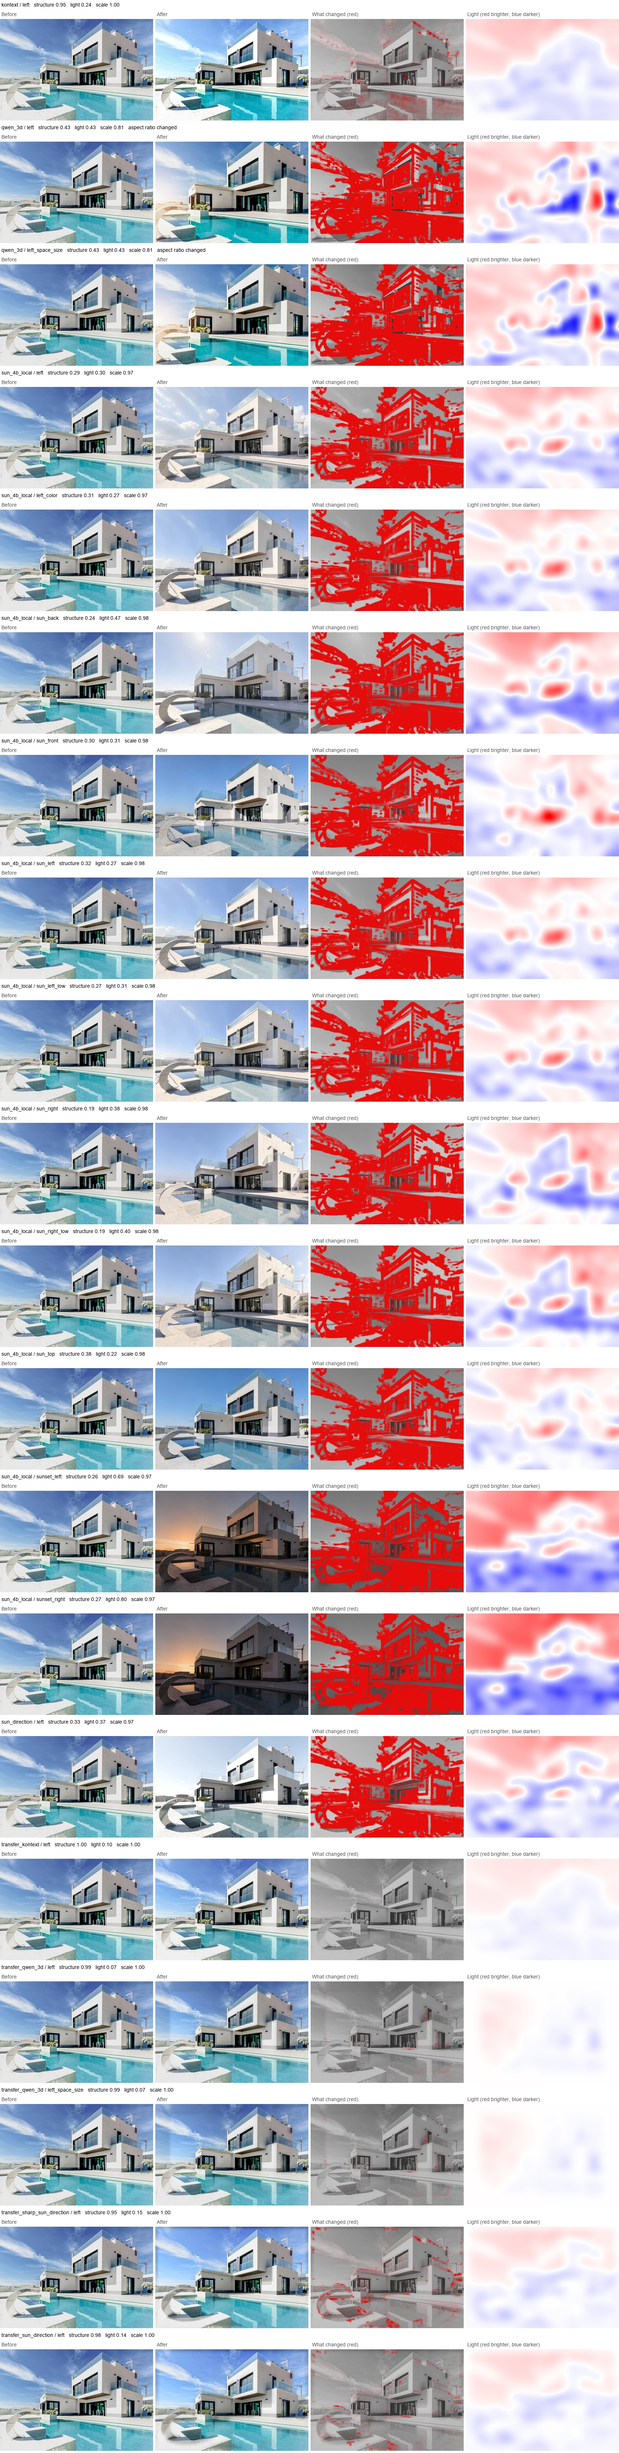
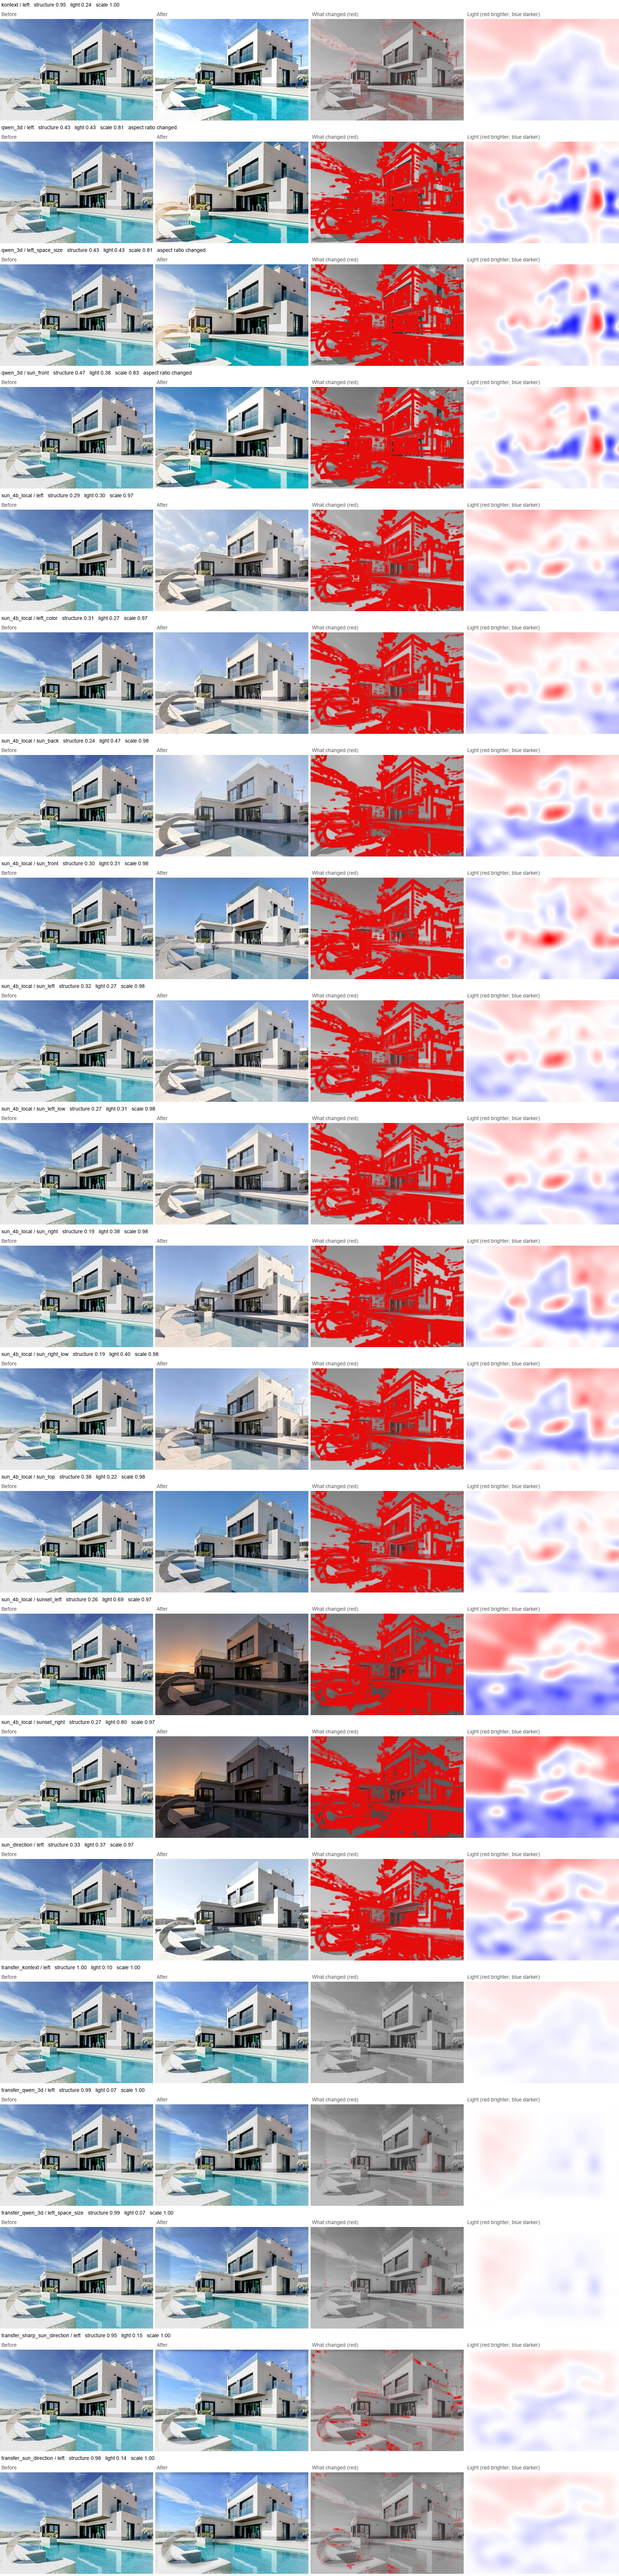
Add more detail on results and problems
Explain the setup and why each problem happens for every model, how the
scores work, the full numbers and how I would build it.

diff --git a/build_pdf.py b/build_pdf.py
@@ -2,6 +2,7 @@
 
     python build_pdf.py
 """
+import csv
 import io
 import json
 from pathlib import Path
@@ -13,7 +14,7 @@ from reportlab.lib.styles import ParagraphStyle
 from reportlab.lib.units import mm
 from reportlab.pdfbase import pdfmetrics
 from reportlab.pdfbase.ttfonts import TTFont
-from reportlab.platypus import Image, PageBreak, Paragraph, SimpleDocTemplate, Table, TableStyle
+from reportlab.platypus import Image, KeepTogether, PageBreak, Paragraph, SimpleDocTemplate, Table, TableStyle
 
 import compare
 
@@ -154,11 +155,20 @@ def start():
         text("The Sun-Direction 4B model on a serverless GPU, for exteriors only, with an automatic check that retries "
              "if the building changes. My estimate is about $0.01 to $0.02 per image and 20 to 26 s. That estimate uses "
              "RunPod prices and my Space times. I did not test it on that GPU."),
+        text("How I measured", H1),
+        text("Every number here comes from my compare.py script. It helps me sort results, but it doesn't replace looking at them."),
+        *bullets([
+            "<b>Structure (0 to 1):</b> local correlation of brightness in a 15 x 15 pixel window, after undoing zoom and shift. "
+            "Flat areas like sky are skipped. New shadows lower it too: fake hard shadows scored 0.92 to 0.96, so a low score isn't always damage.",
+            "<b>Light change (EV):</b> how much the brightness pattern changed across the image, with the overall exposure change removed.",
+            "<b>Scale:</b> the zoom needed to line the result up with the original. 1.00 means the framing held.",
+            "<b>What it can't do:</b> it doesn't check if a shadow points the right way. That part was by eye.",
+        ]),
         text("The three test photos", H1),
         grid([(original(VILLA), "Villa", "Glass, a pool and a steel sculpture. Lots of ways to go wrong."),
               (original(BLOCK), "Concrete block", "A strong diagonal shadow, so you can see if the sun really moved."),
               (original(ROOM), "Living room", "Light can only come through the windows, and there is a lot of furniture.")],
-             max_height=60 * mm),
+             max_height=52 * mm),
     ]
 
 
@@ -168,11 +178,12 @@ def pairs(number, name, did, rows):
     items = []
     for tool, photo, trial, title, note in rows:
         items += [(original(photo), f"{labels[photo]}, original", ""), (r(tool, photo, trial), title, note)]
-    return [PageBreak(), text(f"{number}. {name}", H1), text(f"<b>What I did:</b> {did}"), grid(items, max_height=57 * mm)]
+    return [PageBreak(), text(f"{number}. {name}", H1), text(f"<b>What I did:</b> {did}"), grid(items, max_height=43 * mm)]
 
 
-def ending_of(result, problems):
-    return [text("Result", H2), text(result), text("Problems", H2), *bullets(problems)]
+def ending_of(setup, result, problems):
+    return [KeepTogether([text("Setup", H2), text(setup), text("Result", H2), text(result)]),
+            text("Problems and why they happen", H2), *bullets(problems)]
 
 
 def models():
@@ -183,9 +194,18 @@ def models():
                   [(s9, VILLA, "left", "Sun moved to the left", "The sun moved, but the colors and the pool went gray."),
                    (s9, BLOCK, "right", "Sun moved to the right", "The sun moved, but beige concrete turned gray and the sky went pale."),
                    (s9, ROOM, "back_left", "Low sun from the back left", "The sofa, table, rug and the view outside all changed.")])
-    story += ending_of("It moves the sun, but it washes out the colors.",
-                       ["Colors go gray.", "It redraws furniture indoors. It wasn't trained on interiors.",
-                        "The 9B model can't be used commercially."])
+    story += ending_of(
+        "FLUX.2 Klein 9B with the Sun-Direction LoRA, on a free ZeroGPU Space. It runs two passes at about 1 megapixel: "
+        "an overcast pass without the LoRA, then a LoRA pass that gets the overcast image and the ball as references. "
+        "4 steps, guidance 1.0, seed 42.",
+        "On both exteriors the lit side of the building really changed. Light change was 0.37 to 0.49 EV and the framing "
+        "held (scale 0.97 to 1.00). Structure was only 0.33 to 0.52, because the image is generated again rather than edited. "
+        "Output is about 1264 wide, so detail from the 1536 px input is lost too.",
+        ["<b>Color loss:</b> concrete and the pool went gray. On the 4B version I saved the overcast image and the color "
+         "was still there, so the loss happens in the LoRA pass, not the overcast pass.",
+         "<b>Interiors:</b> the author says the LoRA has no interior training data. It doesn't know light has to come "
+         "through the windows, and it redrew the view, sofa, table and rug.",
+         "<b>License:</b> the LoRA is Apache-2.0, but the 9B base model is non-commercial, so this version can't ship."])
 
     rows = [(VILLA, "left", "left_color", "Villa", "A lot of clouds appeared and everything is pale.",
              "The blue sky came back. The sculpture looks like stone."),
@@ -201,24 +221,48 @@ def models():
               text("<b>What I did:</b> 4B is the smaller version, and it's the one that allows commercial use. "
                    "I ran it on my own RTX 4070, once with no prompt and once with a short prompt asking it to keep the colors."),
               grid(items, columns=3, max_height=42 * mm)]
-    story += ending_of("The color prompt helped a lot. This is the version I would use, but only for exteriors.",
-                       ["Materials still change a bit, and it adds things like trees and clouds.",
-                        "It took 73 to 116 s on my card, because the model doesn't fully fit in 12 GB."])
+    story += ending_of(
+        "FLUX.2 Klein 4B (Apache-2.0) with its matching LoRA, on an RTX 4070 with 12 GB. Same two passes, 4 steps and "
+        "guidance 1.0 through diffusers, with bfloat16 and model CPU offload. Peak GPU memory was 10.4 GB. Color prompt: "
+        "<i>clear blue sky, warm natural sunlight, same colors and materials as the original</i>.",
+        "The color prompt brought back the blue sky and warmer walls without hurting structure much "
+        "(villa 0.29 to 0.31, block 0.52 to 0.48, room 0.48 to 0.49). It's a cheap fix, and this is the version I would "
+        "build on, but only for exteriors.",
+        ["<b>Materials:</b> steel turns to stone because nothing protects it. Every pixel is generated again.",
+         "<b>Added objects:</b> the tree and wire on the concrete block are already there in the overcast pass. That pass is a "
+         "plain edit with no LoRA, so the extra content starts before the sun is even moved.",
+         "<b>Speed:</b> 73 to 116 s. The model doesn't fully fit in 12 GB, so parts move between RAM and GPU. Time on a "
+         "bigger GPU is still unknown."])
 
     story += pairs(3, "Qwen 3D Lighting (free demo)", "you choose the light direction with an angle, and the model edits the photo.",
                    [(q, VILLA, "left", "Sun moved to the left", "Soft haze on the left, and the photo got zoomed."),
                     (q, BLOCK, "right", "Sun moved to the right", "The right wall got brighter, but the old shadow stayed and flower pots appeared."),
                     (q, ROOM, "back_left", "Low sun from the back left", "Furniture stayed, but the sun patch on the window wall can't happen.")])
-    story += ending_of("Fast and keeps the colors, but the light doesn't really move.",
-                       ["It zooms the photo by 16 to 19 percent every time.", "Old shadows stay, and it adds objects."])
+    story += ending_of(
+        "Qwen-Image-Edit on a free ZeroGPU Space. The Space turns the angle into a prompt such as "
+        "<i>Light source from the Right</i>. 4 steps, guidance 1.0, output about 1024 wide.",
+        "The fastest tool at 6.5 to 24 s, and it keeps colors best. Light change was 0.38 to 0.50 EV, but it's mostly brightness "
+        "added on top of the old lighting. After undoing the zoom, structure was 0.43 to 0.60.",
+        ["<b>Zoom:</b> scale came back 0.81 to 0.84 on all four tries, so the output doesn't line up with the original. "
+         "Using the Space's own image size gave the same result, so it isn't caused by my settings.",
+         "<b>Light is added, not moved:</b> old shadows stay. Direction is only a few words in a prompt, and the model doesn't "
+         "use any depth or geometry. That's probably why it put a sun patch on the window wall.",
+         "<b>Added objects:</b> flower pots appeared on the concrete block balcony."])
 
     story += pairs(4, "FLUX.1 Kontext (free demo)",
                    "this is a normal text edit model. I asked in plain text: change only the lighting and keep the building the same.",
                    [(k, VILLA, "left", "Sun moved to the left", "Almost nothing changed. Colors are a bit stronger."),
                     (k, BLOCK, "right", "Sun moved to the right", "The diagonal shadow did not move, and the frame shifted a little."),
                     (k, ROOM, "back_left", "Low sun from the back left", "Nice sunset, but everything is orange and the view is new.")])
-    story += ending_of("It keeps the building, but it doesn't move the sun on exteriors.",
-                       ["Inside, the sun appeared on the wrong side.", "The open version is non-commercial."])
+    story += ending_of(
+        "FLUX.1 Kontext [dev] on a free ZeroGPU Space. 28 steps, guidance 2.5, seed 42. It only takes text, so there's "
+        "no real way to give it a direction.",
+        "The best structure on exteriors (villa 0.95, block 0.81), but the weakest light change of the three models on those "
+        "photos (0.24 and 0.31 EV). In this case a high score mostly means that little happened.",
+        ["<b>No sun movement:</b> my guess is that <i>keep everything the same</i> beat <i>move the sun</i> in the prompt.",
+         "<b>Interior:</b> a strong sunset, about 0.8 EV darker overall, but the sun landed on the wrong side and the outside view was replaced.",
+         "<b>Frame shift:</b> the concrete block moved by about 38 px (scale 0.98).",
+         "<b>License:</b> the dev weights are non-commercial, so a product would need the paid Pro API, which I did not test."])
 
     t9, ts, tq, tk = "transfer_sun_direction", "transfer_sharp_sun_direction", "transfer_qwen_3d", "transfer_kontext"
     rows = [(VILLA, "left", "Villa", "Slight glow at the edges, and the sun didn't move.", "Stronger glow along the edges.",
@@ -236,8 +280,16 @@ def models():
               text("<b>What I did:</b> the models kept redrawing things, so I kept the original photo and copied only the "
                    "brightness change from each model's result."),
               grid(items, columns=3, max_height=38 * mm)]
-    story += ending_of("Objects stay perfect, but the sun doesn't really move.",
-                       ["Old hard shadows stay.", "Sharper settings add bright halos around objects."])
+    story += ending_of(
+        "Align the result to the original, take the log2 brightness ratio, smooth it with a guided filter that uses the original as "
+        "its guide, clip to 2 EV, scale it up and multiply in linear light. Smooth: radius 12, epsilon 0.002. "
+        "Sharp: radius 3, epsilon 0.05. It runs on a CPU and keeps the full resolution.",
+        "Objects are safe: structure 0.94 to 1.00, with no redrawn furniture. But light change falls to 0.04 to 0.20 EV, against "
+        "0.24 to 0.61 for the models, so most of the new light is lost on the way.",
+        ["<b>Old shadows stay:</b> erasing a hard shadow needs a sharp ratio exactly on the shadow edge. Smoothing blurs it, "
+         "and the model's result doesn't line up well enough for a sharp ratio.",
+         "<b>Halos:</b> with less smoothing, edges that don't match between the two images show up as bright lines.",
+         "<b>Ghosts:</b> mistakes in the model's result come along too, like the ring shadow on the living room floor."])
     return story
 
 
@@ -264,12 +316,17 @@ def villa_angles():
             (r(s4, v, "sunset_left"), "Sunset on the left", "The biggest change of all."),
             (r(s4, v, "sunset_right"), "Sunset on the right", "A miss: I asked for the right, but the orange sky stayed on the left."),
             (r("qwen_3d", v, "sun_front"), "Qwen, sun behind the camera", "My one extra Qwen try. Colors are nice, but it's zoomed in a lot."),
-        ], max_height=60 * mm),
-        text("Result", H2),
-        text("This is the best result of the project. You can tell where the sun is, especially from behind the building, from above and at sunset."),
-        text("Problems", H2),
-        *bullets(["The steel sculpture looks like stone, and the pool loses its strong turquoise.",
-                  "Wall tile lines get softer.", "Sunset direction isn't reliable yet."]),
+        ], max_height=48 * mm),
+        *ending_of(
+            "Same 4B setup. I raised the ball brightness from 1.5 to 3.0, set sun height from 8 to 85 degrees, and added "
+            "<i>strong direct sunlight, hard sharp shadows</i> to the prompt. The sunset shots used their own prompt.",
+            "This is the best result of the project. You can tell where the sun is, especially from behind the building, "
+            "from above and at sunset. Light change was 0.22 to 0.47 EV in daylight and 0.69 to 0.80 EV at sunset.",
+            ["<b>Materials:</b> the sculpture looks like stone, the pool loses its turquoise and tile lines get softer. "
+             "Structure dropped to 0.19 to 0.38 here, so stronger light costs more detail.",
+             "<b>Left and right:</b> this is the closest pair. The camera sees two faces of the villa at an angle, so the difference is small.",
+             "<b>Sunset direction:</b> the right side sunset stayed orange on the left. My guess is that the word <i>sunset</i> "
+             "pulled the result toward one look, and the ball lost that fight."]),
     ]
 
 
@@ -326,16 +383,65 @@ def furniture():
     return story
 
 
+def score_table():
+    with open("results/_report/scores.csv", encoding="utf-8", newline="") as f:
+        scores = {(row["tool"], row["photo"], row["trial"]): row for row in csv.DictReader(f, delimiter=";")}
+
+    def cell(tool, photo, trial):
+        row = scores[(tool, photo, trial)]
+        return f"{float(row['structure']):.2f} / {float(row['light_ev']):.2f} / {float(row['scale']):.2f}"
+
+    def small(rows, widths):
+        t = Table([[text(str(c), LABEL if i == 0 else NOTE) for c in row] for i, row in enumerate(rows)],
+                  colWidths=[w * PAGE_WIDTH for w in widths])
+        t.setStyle(TableStyle([("LINEBELOW", (0, 0), (-1, -1), 0.3, GRAY), ("TOPPADDING", (0, 0), (-1, -1), 1.5),
+                               ("BOTTOMPADDING", (0, 0), (-1, -1), 2), ("LEFTPADDING", (0, 0), (-1, -1), 2)]))
+        return t
+
+    tools = [("Sun 9B", "sun_direction", ""), ("Sun 4B, no prompt", "sun_4b_local", ""),
+             ("Sun 4B, color prompt", "sun_4b_local", "_color"), ("Qwen 3D Lighting", "qwen_3d", ""),
+             ("FLUX.1 Kontext", "kontext", ""), ("Transfer from Sun 9B, smooth", "transfer_sun_direction", ""),
+             ("Transfer from Sun 9B, sharp", "transfer_sharp_sun_direction", ""),
+             ("Transfer from Qwen", "transfer_qwen_3d", ""), ("Transfer from Kontext", "transfer_kontext", "")]
+    rows = [["Tool", "Villa", "Concrete block", "Living room"]]
+    rows += [[name, cell(tool, VILLA, "left" + end), cell(tool, BLOCK, "right" + end), cell(tool, ROOM, "back_left" + end)]
+             for name, tool, end in tools]
+    angles = [("Behind the camera", "sun_front"), ("Behind the building", "sun_back"), ("Straight above", "sun_top"),
+              ("Higher left", "sun_left"), ("Higher right", "sun_right"), ("Low left", "sun_left_low"),
+              ("Low right", "sun_right_low"), ("Sunset left", "sunset_left"), ("Sunset right", "sunset_right")]
+    angle_rows = [["Sun position", "Villa, Sun 4B"]] + [[name, cell("sun_4b_local", VILLA, trial)] for name, trial in angles]
+    return [PageBreak(), text("All the numbers", H1),
+            text("Each cell shows structure / light change in EV / scale. One seed per try, so treat these as a rough guide. "
+                 "They're also in results/_report/scores.csv on GitHub."),
+            small(rows, [0.37, 0.21, 0.21, 0.21]), text("Villa sun positions", H2), small(angle_rows, [0.37, 0.25]),
+            text("Time per image", H2),
+            *bullets(["Sun 9B on a free Space: 20.5 to 26 s, queue included", "Sun 4B on my RTX 4070: 73 to 116 s",
+                      "Qwen on a free Space: 6.5 to 24 s, queue included", "Kontext on a free Space: 31.5 to 45 s, queue included"])]
+
+
 def ending():
     return [
         PageBreak(),
+        text("How I would build it", H1),
+        *bullets([
+            "<b>Model:</b> Sun-Direction 4B with a color prompt, because its base model and LoRA are both Apache-2.0.",
+            "<b>Hosting:</b> a serverless GPU that only runs when someone uses it. An always-on RTX 4090 costs about $650 a month, "
+            "which only beats a $0.04 API above about 16,000 images a month.",
+            "<b>Cost:</b> RunPod serverless RTX 4090 is $1.34 an hour. At about 25 s per image that's about $0.01, or $0.02 with one retry.",
+            "<b>Quality gate:</b> after generating, compare the result with the original and retry or reject it if the structure "
+            "drops too far. I haven't tuned that threshold yet.",
+            "<b>Risks:</b> I didn't test 4B on that GPU or measure cold starts, so the speed and cost above are estimates from 9B Space times.",
+        ]),
         text("Problems along the way", H1),
         *bullets([
             "Some free Hugging Face demos were paused or crashing, so I found others.",
             "The free GPU quota ran out quickly, so I moved the Sun-Direction tests to my own computer.",
             "The bigger 9B model doesn't fit on my 12 GB card, so I used 4B.",
-            "My first score was misleading. Kontext scored best because it barely changed anything, so I checked by eye too.",
+            "My saved Hugging Face token was invalid, so runs kept failing after I logged in. Logging in again through the browser fixed it.",
+            "My first score was misleading. It fell near zero when a model zoomed, so I added alignment. Kontext still scored best "
+            "because it barely changed anything, so I also check by eye.",
             "I thought the gray colors came from the overcast step. They came from the next step, so a color prompt helped.",
+            "Sun-Direction needed 150 s of quota when I had 147 s left. That's what pushed me to run it locally.",
         ]),
         text("What can be improved", H1),
         *bullets([
@@ -371,7 +477,7 @@ def page_number(canvas, doc):
 
 
 def main():
-    story = start() + models() + villa_angles() + failures() + furniture() + ending()
+    story = start() + models() + villa_angles() + failures() + furniture() + score_table() + ending()
     doc = SimpleDocTemplate(OUTPUT, pagesize=A4, leftMargin=14 * mm, rightMargin=14 * mm, topMargin=12 * mm,
                             bottomMargin=13 * mm, title="Moving the sun in architecture photos", author="Mehmet Ozturk")
     doc.build(story, onFirstPage=page_number, onLaterPages=page_number)
